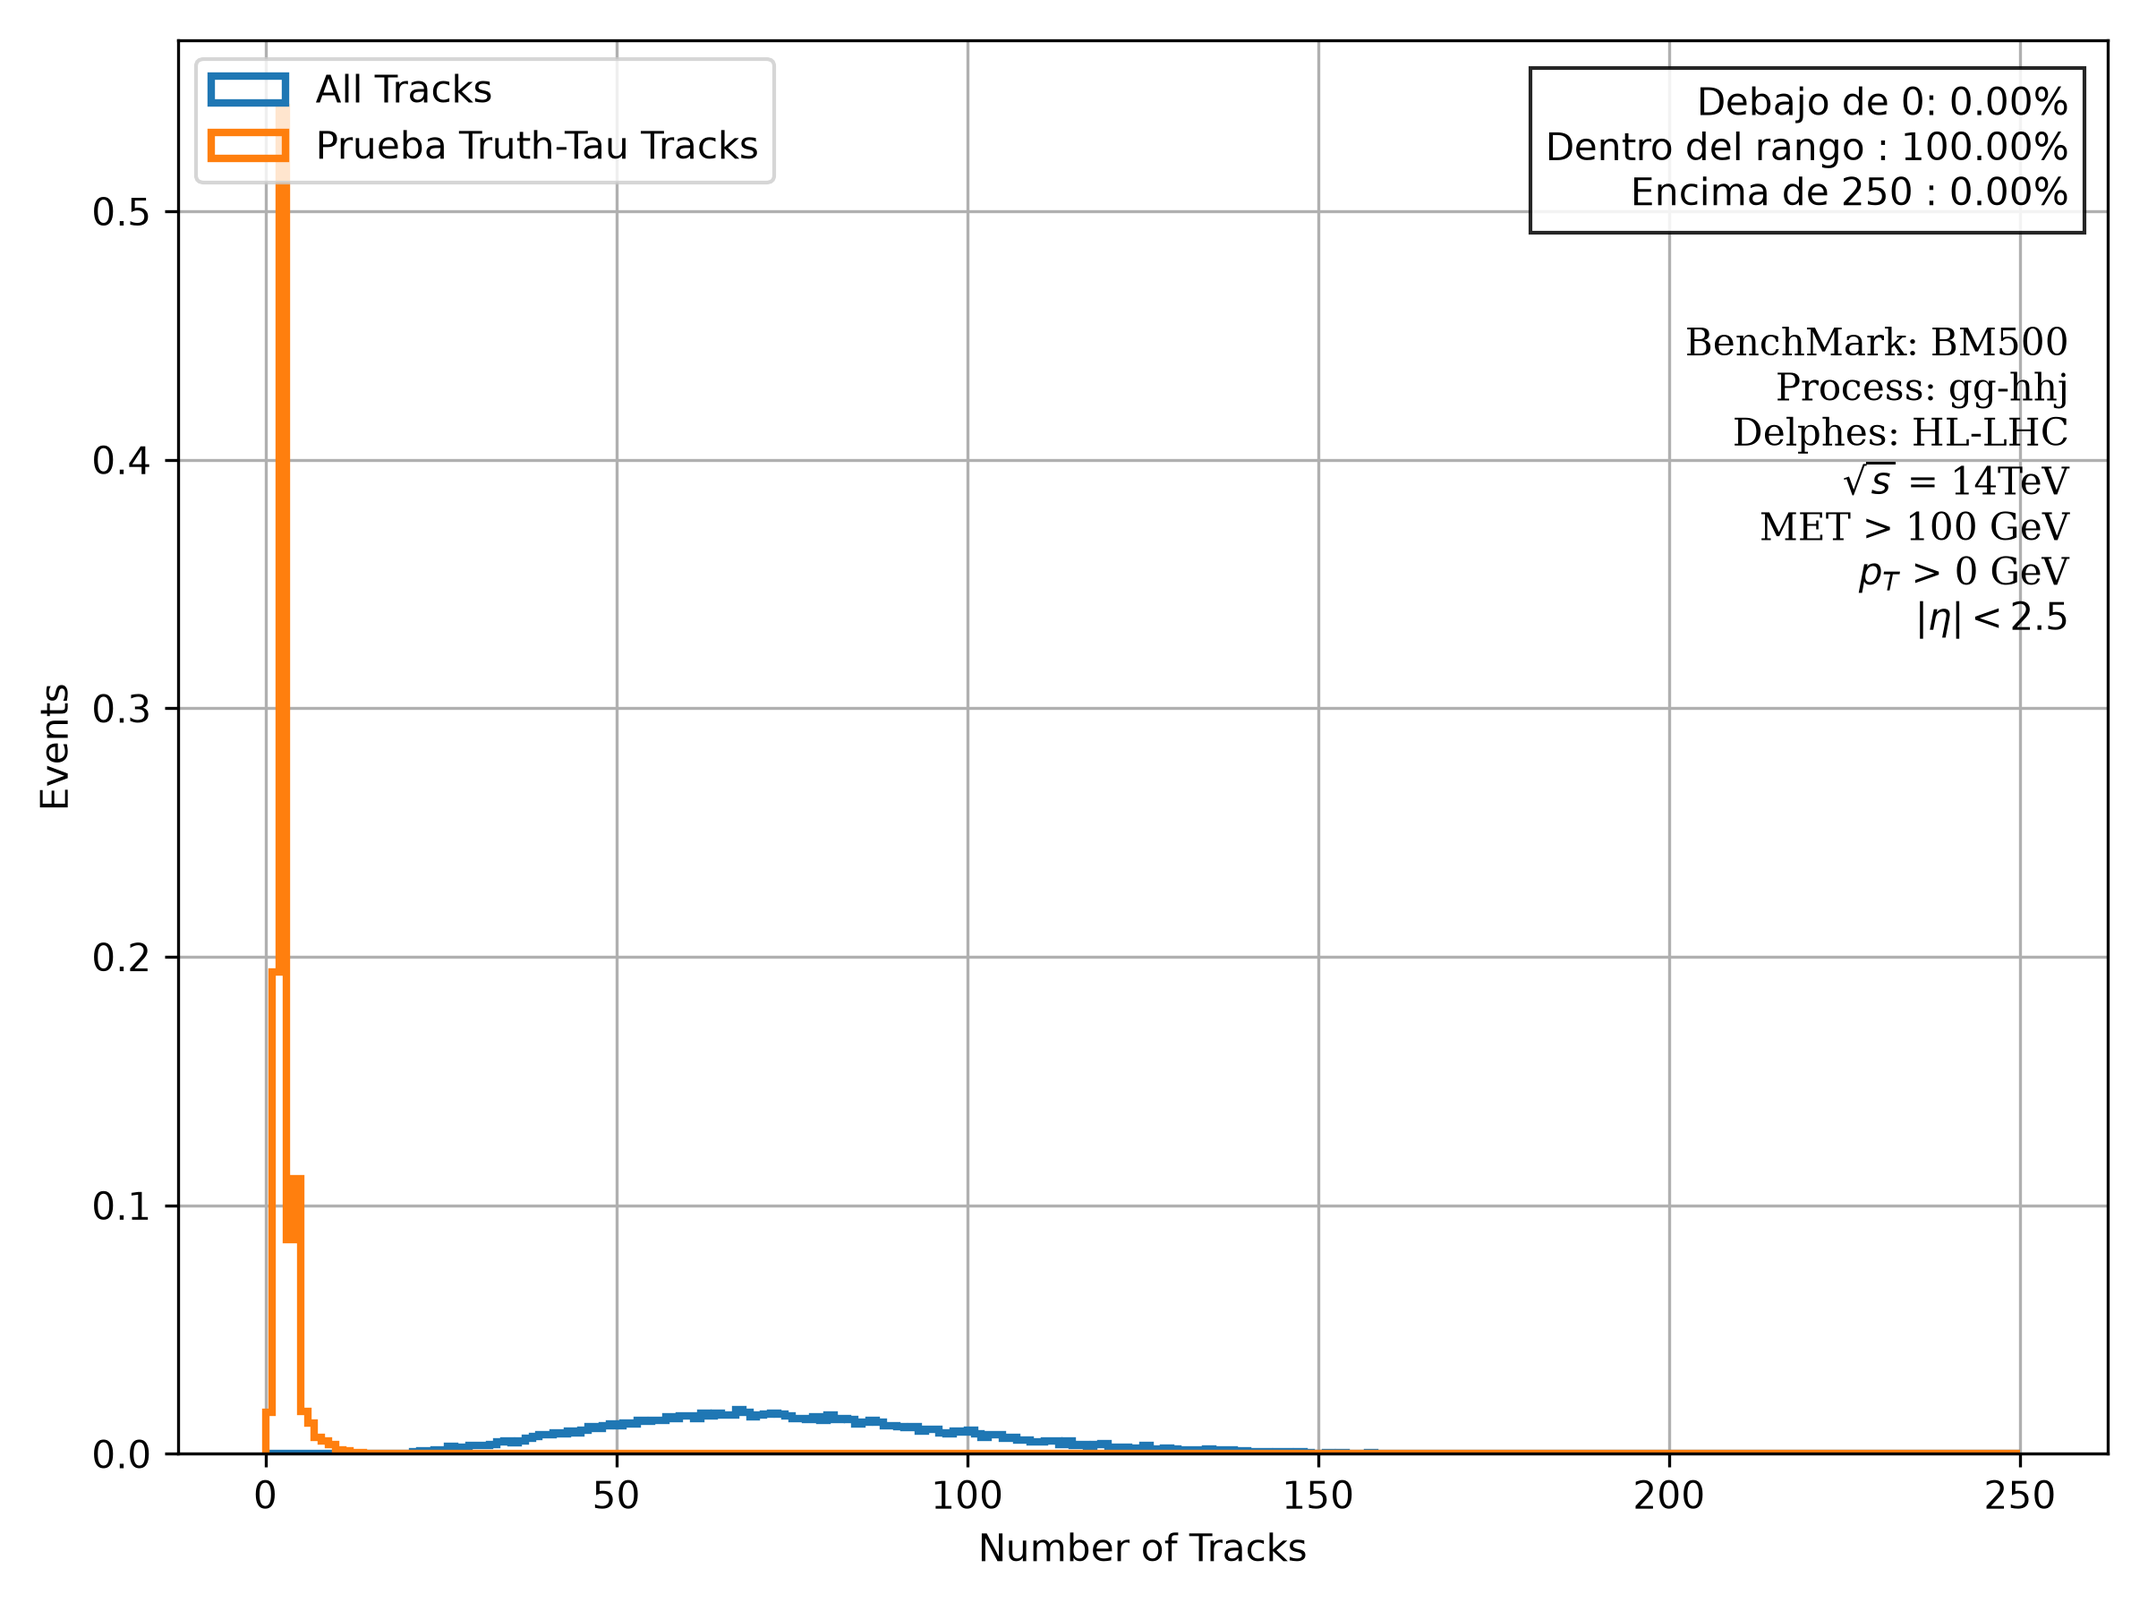
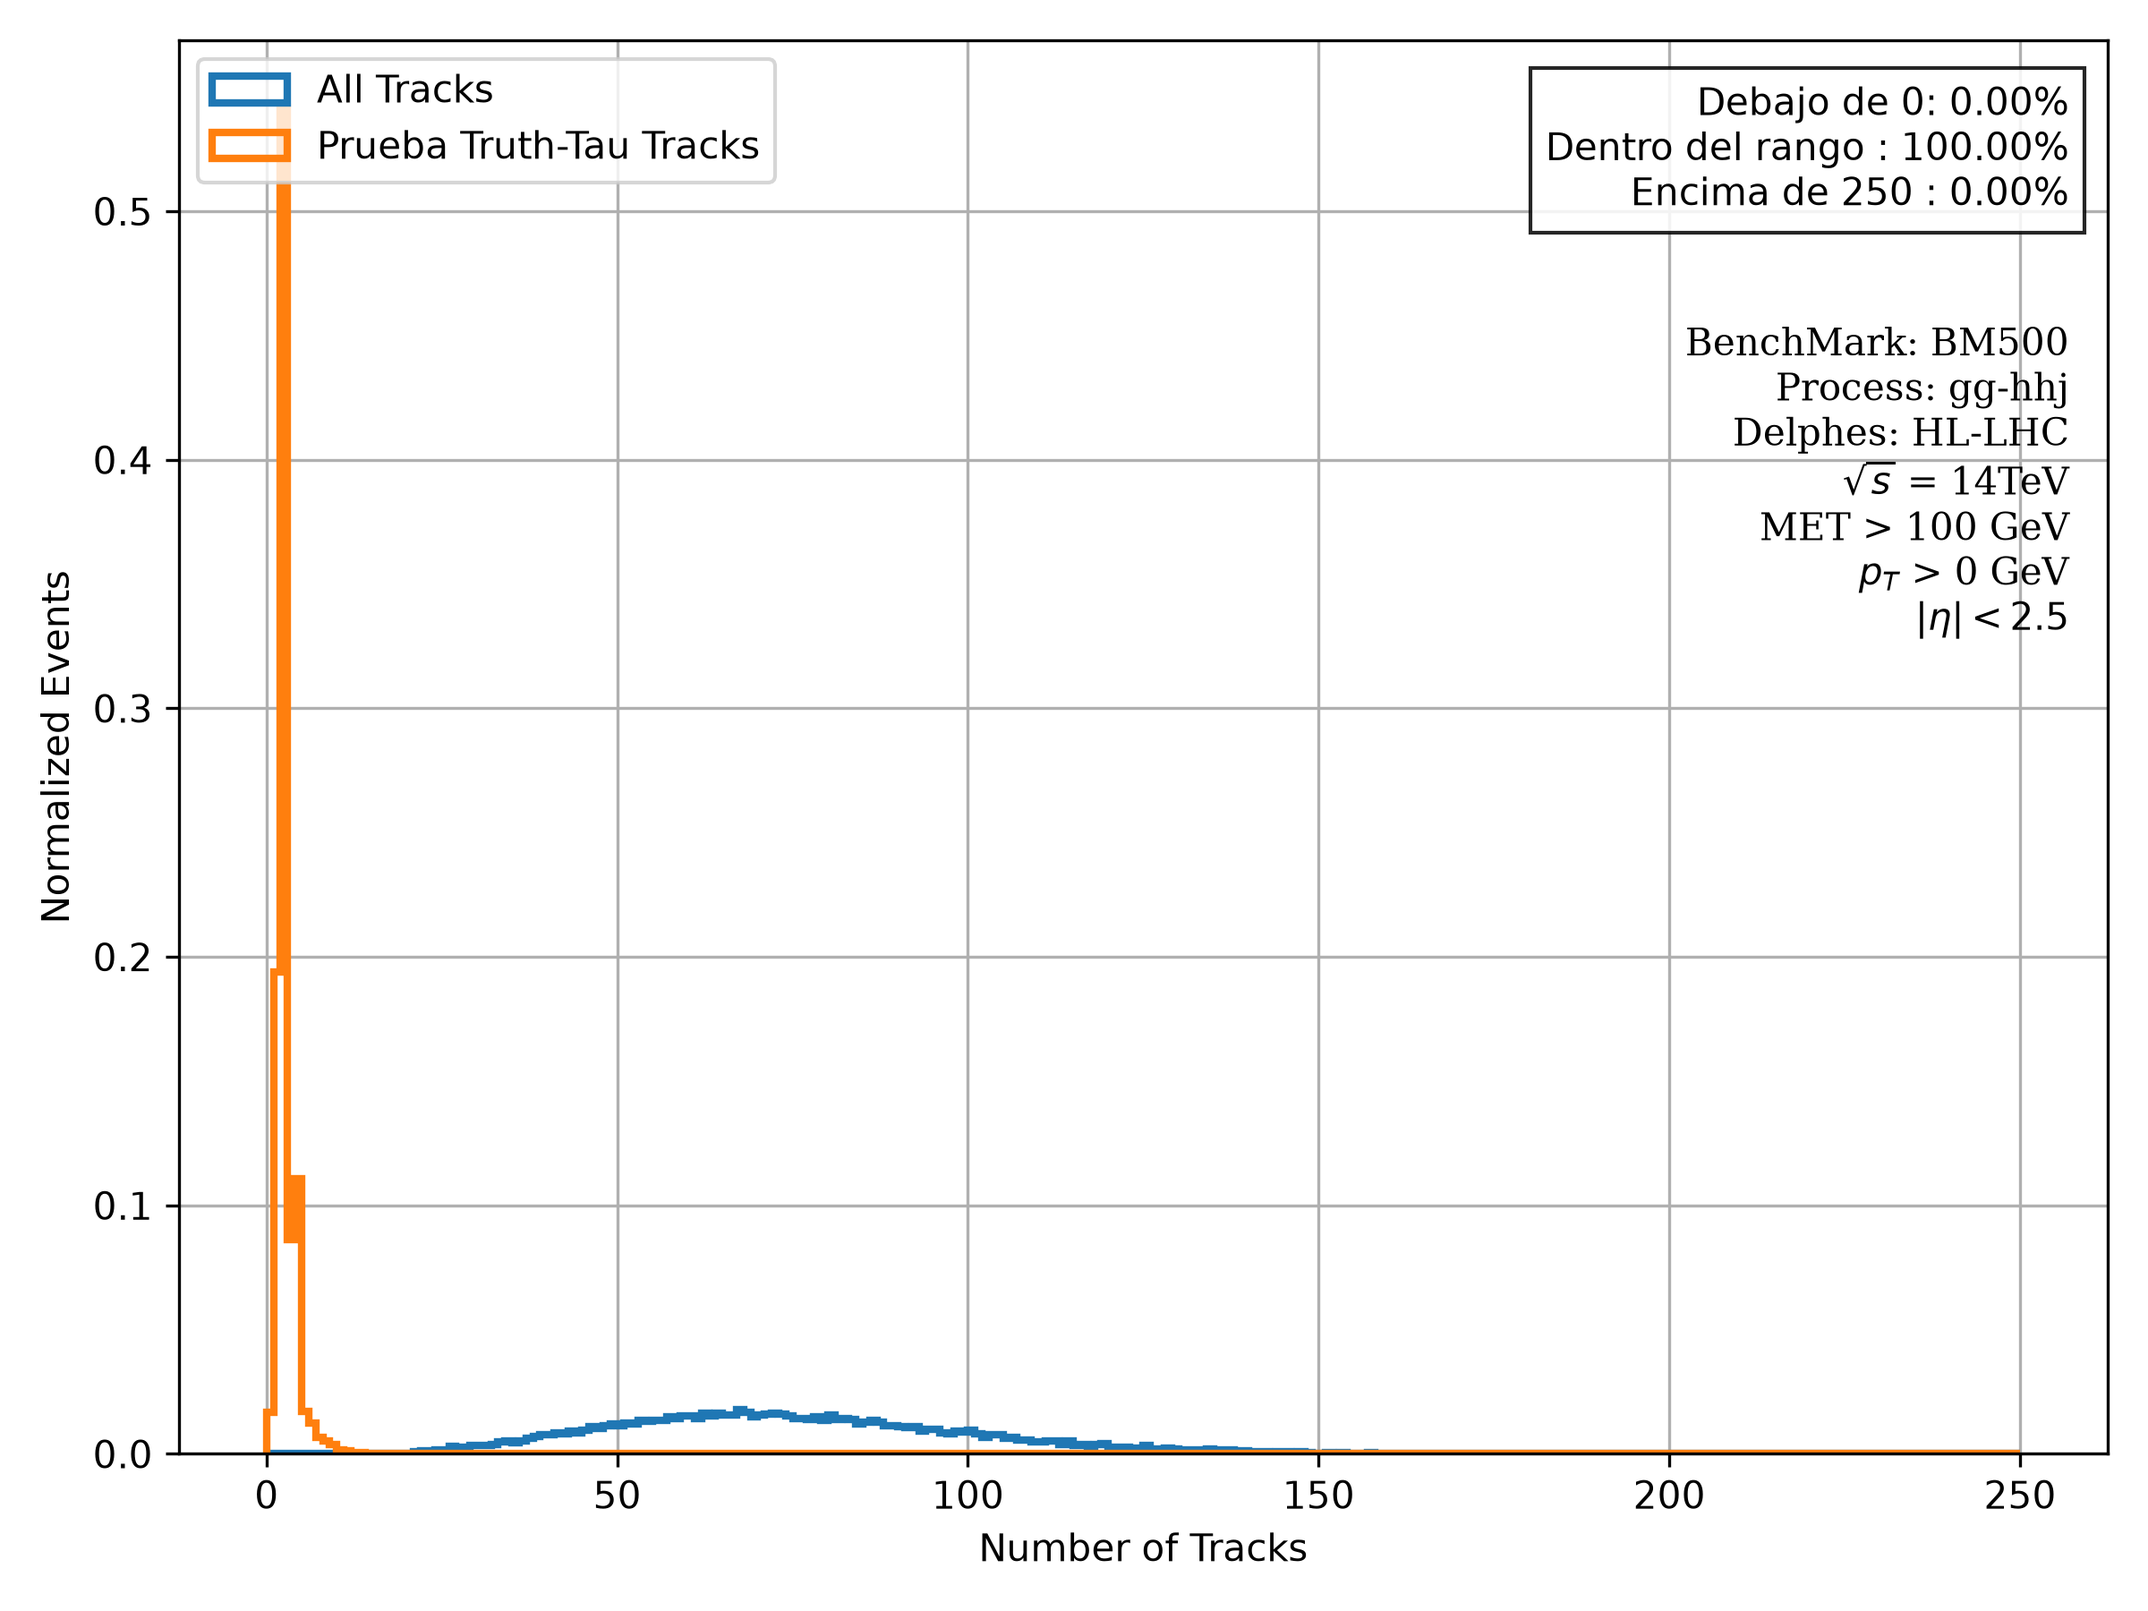
Cambios de normalizacion en ROOT_analyzer.py

diff --git a/RecAnalysis/ROOT_analyzer.py b/RecAnalysis/ROOT_analyzer.py
@@ -399,6 +399,9 @@ def match_tracks_to_truth_taus(t2, tracks_ev, dr_tau=DR_TAU, pt_track=PT_TRACK):
 
 Tracks_truthTaus = {key: match_tracks_to_truth_taus(gen[key], tracks[key]) for key in gen}
 
+N_tracks_total = {key: ak.sum(ak.num(tracks[key], axis=1)) for key in tracks} # N total de tracks 
+N_tracks_matched = {key: ak.sum(ak.num(Tracks_truthTaus[key]["tracks_taus"], axis=1)) for key in Tracks_truthTaus} # N total de tracks matched a taus truth
+
 for key, m in Tracks_truthTaus.items():
     print(f"{key}: ok {ak.sum(m['ok'])}/{len(m['ok'])}  "
           f"prongs- {np.bincount(ak.to_numpy(m['n_m']), minlength=5)[:5]}  "
@@ -412,7 +415,8 @@ for ax, campo, lab in [(axes[0], "n_m", r"$\tau^-$ truth"),
                        (axes[1], "n_p", r"$\tau^+$ truth")]:
     for key, m in Tracks_truthTaus.items():
         a = ak.to_numpy(m[campo])
-        ax.hist(a, bins=bines, histtype="step", linewidth=2, density=True,
+        w = np.full(len(a), 1.0 / len(a))
+        ax.hist(a, bins=bines, histtype="step", linewidth=2, weights=w,
                 label=f"{key}  (N={len(a)}, 1p {100*(a==1).mean():.0f}%, "
                       f"3p {100*(a==3).mean():.0f}%)")
         
@@ -440,12 +444,24 @@ pt_data = {key: ak.to_numpy(ak.flatten(tracks[key].pt)) for key in tracks}
 eta_data = {key: ak.to_numpy(ak.flatten(tracks[key].eta)) for key in tracks}
 phi_data = {key: ak.to_numpy(ak.flatten(tracks[key].phi)) for key in tracks}
 
-
 pt_data_taus = {key: ak.to_numpy(ak.flatten(Tracks_truthTaus[key]["tracks_taus"].pt)) for key in Tracks_truthTaus}
 eta_data_taus = {key: ak.to_numpy(ak.flatten(Tracks_truthTaus[key]["tracks_taus"].eta)) for key in Tracks_truthTaus}
 phi_data_taus = {key: ak.to_numpy(ak.flatten(Tracks_truthTaus[key]["tracks_taus"].phi)) for key in Tracks_truthTaus}
 
-lim_inf_pt, lim_sup_pt, p_debajo_pt, p_dentro_pt, p_encima_pt = f.calculo_rangos(0, 100, list(MET_data.values()))
+# Calculo de pesos
+
+w_pt_data = {key: np.full(len(pt_data[key]), 1.0 / N_tracks_total[key]) for key in N_tracks_total}
+w_eta_data = {key: np.full(len(eta_data[key]), 1.0 / N_tracks_total[key]) for key in N_tracks_total}
+w_phi_data = {key: np.full(len(phi_data[key]), 1.0 / N_tracks_total[key]) for key in N_tracks_total}
+
+w_pt_data_taus = {key: np.full(len(pt_data_taus[key]), 1.0 / N_tracks_matched[key]) for key in N_tracks_matched}
+w_eta_data_taus = {key: np.full(len(eta_data_taus[key]), 1.0 / N_tracks_matched[key]) for key in N_tracks_matched}
+w_phi_data_taus = {key: np.full(len(phi_data_taus[key]), 1.0 / N_tracks_matched[key]) for key in N_tracks_matched}
+
+
+# limites
+
+lim_inf_pt, lim_sup_pt, p_debajo_pt, p_dentro_pt, p_encima_pt = f.calculo_rangos(0, 100, list(pt_data.values()))
 lim_inf_eta, lim_sup_eta, p_debajo_eta, p_dentro_eta, p_encima_eta = f.calculo_rangos(-5,5, list(eta_data.values()))
 lim_inf_phi, lim_sup_phi, p_debajo_phi, p_dentro_phi, p_encima_phi = f.calculo_rangos(-3.2,3.2, list(phi_data.values()))
 
@@ -454,21 +470,21 @@ texto_eta = (f"Debajo de {lim_inf_eta}: {p_debajo_eta:.2f}%\n"f"Dentro del rango
 texto_phi = (f"Debajo de {lim_inf_phi}: {p_debajo_phi:.2f}%\n"f"Dentro del rango : {p_dentro_phi:.2f}%\n"f"Encima de {lim_sup_phi}: {p_encima_phi:.2f}%")
 
 labels = [r"LQ - Tracks", r"BG - Tracks", r"SM - Tracks"]
-kw = dict(bins=50, density=True, histtype="step", linewidth=2)
+kw = dict(bins=50, histtype="step", linewidth=2)
 
-fig, axes = plt.subplots(1, 3, figsize=(18,6), sharey=True)
+fig, axes = plt.subplots(1, 3, figsize=(18,6), sharey=False)
 
 for i, (key, pt) in enumerate(pt_data.items()):
-        axes[0].hist(pt, range=(lim_inf_pt, lim_sup_pt), **kw, label=f"{key}-Tracks")
-        axes[0].hist(pt_data_taus[key], range=(lim_inf_pt, lim_sup_pt), **kw, label=f"{key} Truth-Tau Tracks")
+        axes[0].hist(pt, range=(lim_inf_pt, lim_sup_pt), **kw, label=f"{key}-Tracks", weights=w_pt_data[key])
+        axes[0].hist(pt_data_taus[key], range=(lim_inf_pt, lim_sup_pt), **kw, label=f"{key} Truth-Tau Tracks", weights=w_pt_data_taus[key])
 
 for j, (key, eta) in enumerate(eta_data.items()):
-        axes[1].hist(eta, range=(lim_inf_eta, lim_sup_eta), **kw, label=f"{key}-Tracks")
-        axes[1].hist(eta_data_taus[key], range=(lim_inf_eta, lim_sup_eta), **kw, label=f"{key} Truth-Tau Tracks")
+        axes[1].hist(eta, range=(lim_inf_eta, lim_sup_eta), **kw, label=f"{key}-Tracks", weights=w_eta_data[key])
+        axes[1].hist(eta_data_taus[key], range=(lim_inf_eta, lim_sup_eta), **kw, label=f"{key} Truth-Tau Tracks", weights=w_eta_data_taus[key])
 
 for k, (key, phi) in enumerate(phi_data.items()):
-        axes[2].hist(phi, range=(lim_inf_phi, lim_sup_phi), **kw, label=f"{key}-Tracks")
-        axes[2].hist(phi_data_taus[key], range=(lim_inf_phi, lim_sup_phi), **kw, label=f"{key} Truth-Tau Tracks")
+        axes[2].hist(phi, range=(lim_inf_phi, lim_sup_phi), **kw, label=f"{key}-Tracks", weights=w_phi_data[key])
+        axes[2].hist(phi_data_taus[key], range=(lim_inf_phi, lim_sup_phi), **kw, label=f"{key} Truth-Tau Tracks", weights=w_phi_data_taus[key])
         
 axes[0].text(0.98, 0.97,texto_pt,transform=axes[0].transAxes,ha="right",va="top",bbox=dict(facecolor="white", alpha=0.85))
 axes[0].set_ylabel("Normalized Events")
@@ -556,7 +572,13 @@ dz_data = {key: ak.to_numpy(ak.flatten(tracks[key].dz)) for key in tracks}
 d0_truthtau_tracks = {key: ak.to_numpy(ak.flatten(Tracks_truthTaus[key]["tracks_taus"].d0)) for key in Tracks_truthTaus}
 dz_truthtau_tracks = {key: ak.to_numpy(ak.flatten(Tracks_truthTaus[key]["tracks_taus"].dz)) for key in Tracks_truthTaus}
 
-kw = dict(bins=50, density=True, histtype="step", linewidth=2)
+w_d0 = {key: np.full(len(d0_data[key]), 1.0 / N_tracks_total[key]) for key in N_tracks_total}
+w_dz = {key: np.full(len(dz_data[key]), 1.0 / N_tracks_total[key]) for key in N_tracks_total}
+
+w_d0_truthtau = {key: np.full(len(d0_truthtau_tracks[key]), 1.0 / N_tracks_total[key]) for key in N_tracks_total}
+w_dz_truthtau = {key: np.full(len(dz_truthtau_tracks[key]), 1.0 / N_tracks_total[key]) for key in N_tracks_total}
+
+kw = dict(bins=50, histtype="step", linewidth=2)
 
 lim_inf_d0, lim_sup_d0, p_debajo_d0, p_dentro_d0, p_encima_d0 = f.calculo_rangos(-6,6, list(d0_data.values()))
 lim_inf_dz, lim_sup_dz, p_debajo_dz, p_dentro_dz, p_encima_dz = f.calculo_rangos(-30,30, list(dz_data.values()))
@@ -570,15 +592,15 @@ axes[0].text(0.98, 0.97,texto0,transform=axes[0].transAxes,ha="right",va="top",b
 axes[1].text(0.98, 0.97,texto1,transform=axes[1].transAxes,ha="right",va="top",bbox=dict(facecolor="white", alpha=0.85))
 
 for i, (key, d0) in enumerate(d0_data.items()):
-        axes[0].hist(d0, range=(lim_inf_d0, lim_sup_d0), **kw, label=f"{key}")
-        axes[0].hist(d0_truthtau_tracks[key], range=(lim_inf_d0, lim_sup_d0), **kw, label=f"{key} Truth-Tau Tracks")
+        axes[0].hist(d0, range=(lim_inf_d0, lim_sup_d0), **kw, label=f"{key}", weights=w_d0[key])
+        axes[0].hist(d0_truthtau_tracks[key], range=(lim_inf_d0, lim_sup_d0), **kw, label=f"{key} Truth-Tau Tracks", weights=w_d0_truthtau[key])
 
 for j, (key, dz) in enumerate(dz_data.items()):
-        axes[1].hist(dz, range=(lim_inf_dz, lim_sup_dz), **kw, label=f"{key}")
-        axes[1].hist(dz_truthtau_tracks[key], range=(lim_inf_dz, lim_sup_dz), **kw, label=f"{key} Truth-Tau Tracks")
+        axes[1].hist(dz, range=(lim_inf_dz, lim_sup_dz), **kw, label=f"{key}", weights=w_dz[key])
+        axes[1].hist(dz_truthtau_tracks[key], range=(lim_inf_dz, lim_sup_dz), **kw, label=f"{key} Truth-Tau Tracks", weights=w_dz_truthtau[key])
 
 axes[0].set_xlabel(r"$d_0$ [mm]")
-axes[0].set_ylabel("Normalize Number of Tracks")
+axes[0].set_ylabel("Normalized Number of Tracks")
 axes[0].set_yscale('log')
 axes[0].set_title('Transverse displacement (d0)')
 
@@ -617,11 +639,11 @@ plt.text(0.98, 0.8, Data_text_ID_tracks, transform=plt.gca().transAxes,
         ha="right", va="top", fontsize=10, family="DejaVu Serif")
 
 for i, (key, ntrk) in enumerate(ntrk_data.items()):
-        plt.hist(ntrk, bins=250, density=True, range=(lim_inf_ntrk, lim_sup_ntrk), histtype="step", linewidth=2, label=f"All Tracks")
-        plt.hist(ntrk_truthtau[key], bins=250, density=True, range=(lim_inf_ntrk, lim_sup_ntrk), histtype="step", linewidth=2, label=f"{key} Truth-Tau Tracks")
+        plt.hist(ntrk, bins=250, range=(lim_inf_ntrk, lim_sup_ntrk), density = True, histtype="step", linewidth=2, label=f"All Tracks")
+        plt.hist(ntrk_truthtau[key], bins=250, range=(lim_inf_ntrk, lim_sup_ntrk), density = True, histtype="step", linewidth=2, label=f"{key} Truth-Tau Tracks")
 
 plt.xlabel(r"Number of Tracks")
-plt.ylabel("Events")
+plt.ylabel("Normalized Events")
 plt.grid()
 plt.legend(loc = 'upper left')
 
@@ -660,7 +682,6 @@ def build_selected_pairs(taus, bjets):
                     "taus": tc, "bjets": bc}
     return out
 
-
 def build_observables(sel):
     obs = {}
     for key, s in sel.items():
@@ -690,6 +711,29 @@ print('Calculating Observables')
 Observables = build_observables(Selection_dictionary)               # Calculo los observables de cada par de Taus y Bs seleccionados
 
 ncols = len(Observables)
+
+
+
+# ============================================================================
+# Eventos que sobreviven a la selección de 2 Taus + 2 Bjets
+# ============================================================================
+
+
+N_events_selected = {key: len(sel["taus"]) for key, sel in Selection_dictionary.items()} # Si bien tomo la columna "taus", todos los eventos 
+                                                                                         # seleccionados tienen al menos 2 Taus y 2 Bjets, 
+                                                                                         # por lo que es equivalente a tomar "bjets" o "taus+bjets"
+
+
+N_taus_selected = {key: ak.sum(ak.num(sel['taus'], axis=1)) for key, sel in Selection_dictionary.items()}
+N_bjet_selected = {key: ak.sum(ak.num(sel['bjets'], axis=1)) for key, sel in Selection_dictionary.items()}
+
+print('')
+print('Average Number of Jets per Selected event (2tau+2bjet): ')
+for key in Selection_dictionary.keys():
+    print(f'{key}:')
+    print('taus: ', N_taus_selected[key] / N_events_selected[key])
+    print('bjets: ', N_bjet_selected[key] / N_events_selected[key])
+    print('')
 
 
 # ============================================================================
@@ -839,15 +883,22 @@ filas = [
      r"$M(\tau_{\mathrm{vis}}\tau_{\mathrm{vis}})$", r"$M(b\bar{b})$"),
 ]
 
-fig, axes = plt.subplots(2, len(Observables.keys()), figsize=(5.5*ncols, 10), sharey='row',squeeze=False)
+ffig, axes = plt.subplots(2, len(Observables.keys()), figsize=(5.5*ncols, 10),
+                         sharey='row', squeeze=False)
+
 for r, (k_tt, k_bb, (lo, hi), nbins, xlabel, lab_tt, lab_bb) in enumerate(filas):
     for c, key in enumerate(Observables):
         ax = axes[r, c]
-        li, ls, p_deb, p_den, p_enc = f.calculo_rangos(lo, hi, [Observables[key][k_tt], Observables[key][k_bb]])
+        li, ls, p_deb, p_den, p_enc = f.calculo_rangos(
+            lo, hi, [Observables[key][k_tt], Observables[key][k_bb]])
 
-        kw = dict(bins=nbins, density=True, range=(li, ls), histtype="step", linewidth=2)
-        ax.hist(ak.to_numpy(Observables[key][k_tt]), label=lab_tt, **kw)
-        ax.hist(ak.to_numpy(Observables[key][k_bb]), label=lab_bb, **kw)
+        a_tt = ak.to_numpy(Observables[key][k_tt])
+        a_bb = ak.to_numpy(Observables[key][k_bb])
+        w = np.full(len(a_tt), 1.0 / len(a_tt))
+
+        kw = dict(bins=nbins, range=(li, ls), histtype="step", linewidth=2, weights=w)
+        ax.hist(a_tt, label=lab_tt, **kw)
+        ax.hist(a_bb, label=lab_bb, **kw)
 
         ax.set_xlabel(xlabel)
         ax.legend(loc="lower right", fontsize=9)
@@ -862,8 +913,8 @@ for r, (k_tt, k_bb, (lo, hi), nbins, xlabel, lab_tt, lab_bb) in enumerate(filas)
         if r == 0:
             ax.set_title(fr'{key}')
 
-axes[0, 0].set_ylabel("Densidad normalizada")
-axes[1, 0].set_ylabel("Densidad normalizada")
+axes[0, 0].set_ylabel("Fracción de eventos")
+axes[1, 0].set_ylabel("Fracción de eventos")
 
 axes[0, 0].text(0.98, 0.80, Data_text_ID_jets, transform=axes[0, 0].transAxes, ha="right", va="top",
          fontsize=9, family="DejaVu Serif")
@@ -884,6 +935,8 @@ print('Plotting IM Distribution of (tatabb)')
 
 Higgs_mass = {key: ak.to_numpy(Observables[key]["m_hh"]) for key in Observables}
 
+w_higgs = {key: np.full(len(Observables[key]["m_hh"]), 1.0 / N_events_selected[key]) for key in Observables}
+
 lim_inf_mhh, lim_sup_mhh, p_debajo_mhh, p_dentro_mhh, p_encima_mhh = f.calculo_rangos(130,1500, list(Higgs_mass.values()))
 
 texto_Higgs = (f"Debajo de {lim_inf_mhh} GeV : {p_debajo_mhh:.2f}%\n"f"Dentro del rango : {p_dentro_mhh:.2f}%\n"f"Encima de {lim_sup_mhh} GeV : {p_encima_mhh:.2f}%")
@@ -896,7 +949,8 @@ plt.text(0.98, 0.84, Data_text_ID_jets, transform=plt.gca().transAxes,
 plt.text(0.98, 0.98,texto_Higgs,transform=plt.gca().transAxes,ha="right",va="top",bbox=dict(facecolor="white", alpha=0.85))
 
 for key, arr in Higgs_mass.items():
-    plt.hist(ak.to_numpy(arr), bins=40, density=True, range=(lim_inf_mhh, lim_sup_mhh), histtype="step", linewidth=2, label=fr'{key}')
+    plt.hist(ak.to_numpy(arr), bins=40, density=False, range=(lim_inf_mhh, lim_sup_mhh), 
+             histtype="step", linewidth=2, label=fr'{key}', weights= w_higgs[key])
 
 plt.xlabel(r"$M$ [GeV]")
 plt.ylabel("Eventos")
